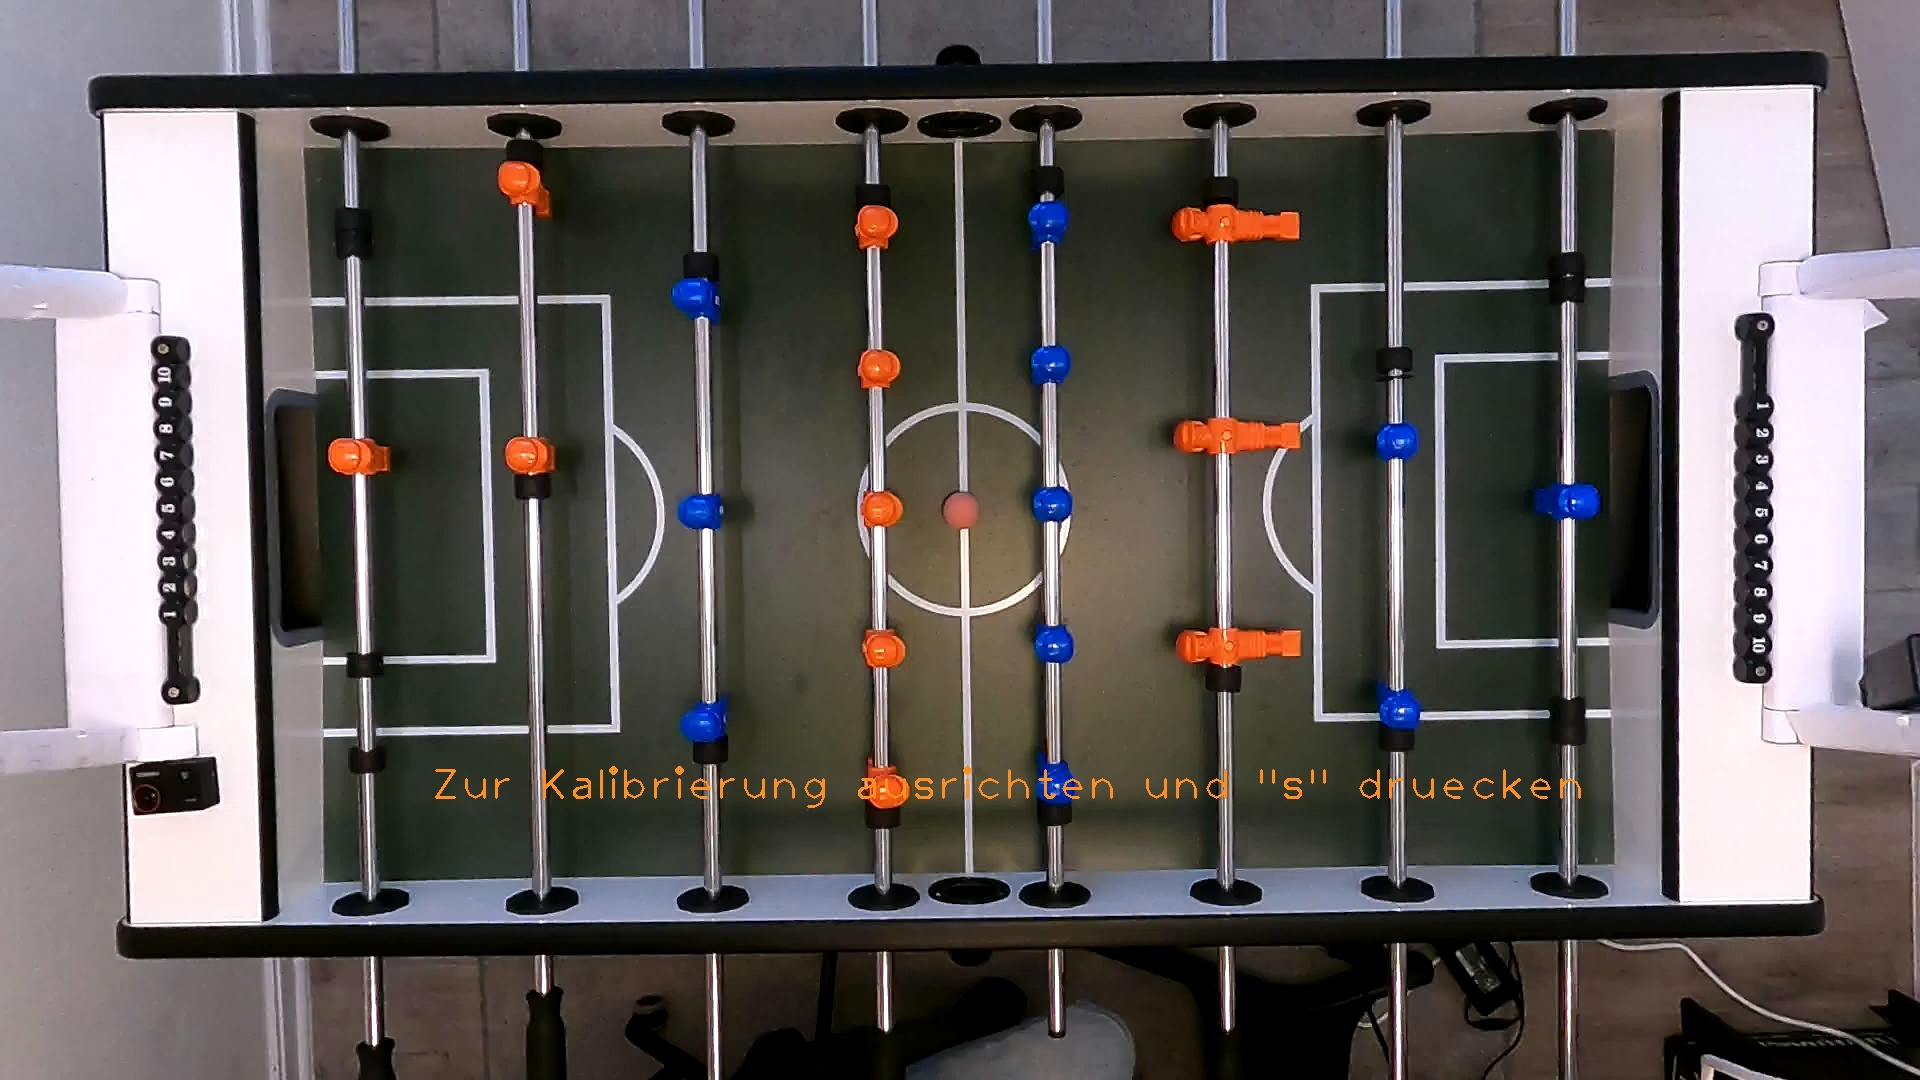
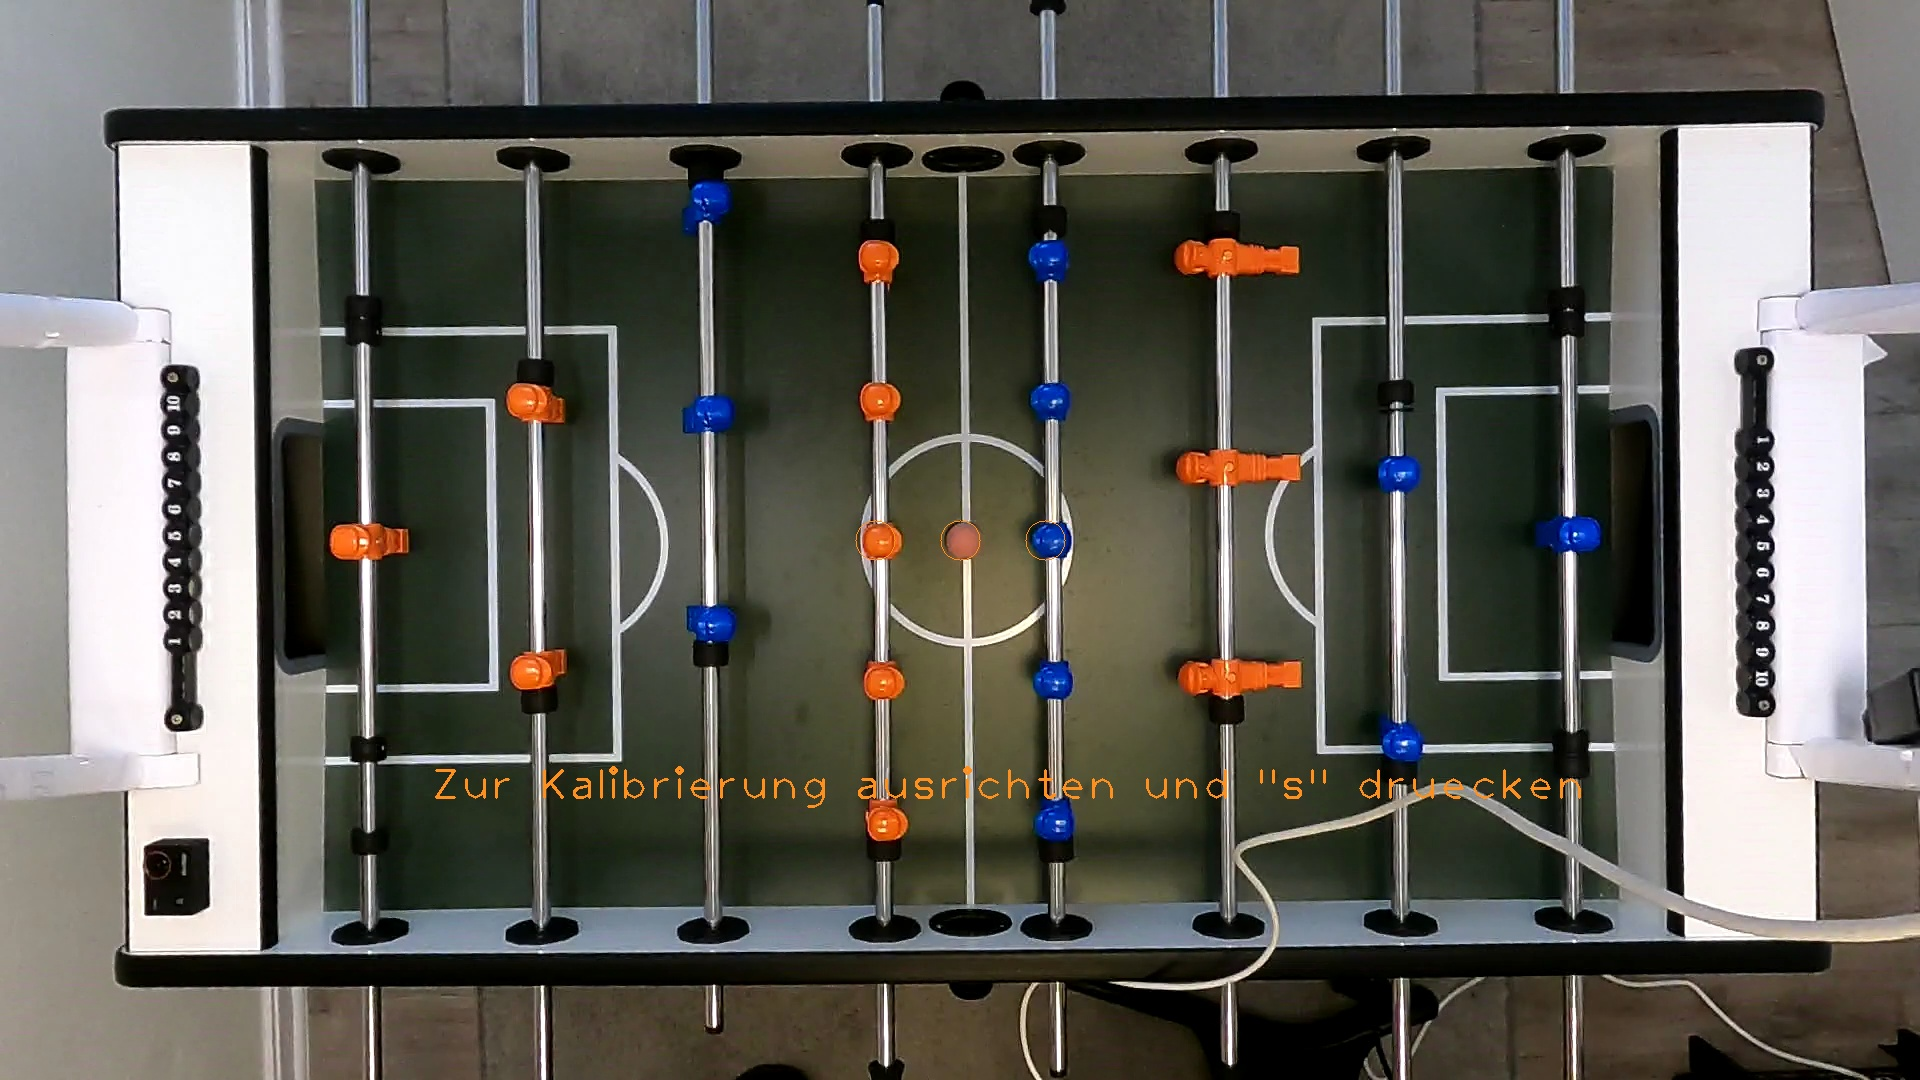
including better color range for color detection

diff --git a/Code/detect_color.py b/Code/detect_color.py
@@ -24,9 +24,6 @@ class ColorTracker:
         x_center = int(round(img_hsv.shape[1] / 2))
         y_center = int(round(img_hsv.shape[0] / 2))
 
-        # cv2.circle(img_hsv, (int(x_center), int(y_center)), 1, (0, 0, 255), 1)
-        # cv2.imwrite("croppedBall.jpg", img_hsv)
-
         # Get the color of the pixel in the image center
         color = img_hsv[y_center, x_center]
 
@@ -34,12 +31,10 @@ class ColorTracker:
         lower_border_arr = [np.min(colors[:, :, 0]), np.min(colors[:, :, 1]), np.min(colors[:, :, 2])]
         upper_border_arr = [np.max(colors[:, :, 0]), np.max(colors[:, :, 1]), np.max(colors[:, :, 2])]
 
+        # Create a mask for the areas with a color similar to the center pixel
         lower_border_arr = np.array(lower_border_arr)
         upper_border_arr = np.array(upper_border_arr)
 
-        # Create a mask for the areas with a color similar to the center pixel
-        # lower_border_arr = color - [20, 20, 20]
-        # upper_border_arr = color + [20, 20, 20]
         lower_border = tuple(lower_border_arr.tolist())
         upper_border = tuple(upper_border_arr.tolist())
 
@@ -71,13 +66,11 @@ class ColorTracker:
         if team_number == 1:
             x_player = x_center + 85
             y_player = y_center
-            # cv2.circle(img_hsv, (int(x_player), int(y_player)), 1, (0, 255, 255), 1)
-            # cv2.imwrite("croppedImage1.jpg", img_hsv)
+
         if team_number == 2:
             x_player = x_center - 85
             y_player = y_center
-            # cv2.circle(img_hsv, (int(x_player), int(y_player)), 1, (0, 255, 255), 1)
-            # cv2.imwrite("croppedImage2.jpg", img_hsv)
+
 
         # Get the color of the pixel in the image center
         color = img_hsv[y_player, x_player]
@@ -85,12 +78,10 @@ class ColorTracker:
         lower_border_arr = [np.min(colors[:, :, 0]), np.min(colors[:, :, 1]), np.min(colors[:, :, 2])]
         upper_border_arr = [np.max(colors[:, :, 0]), np.max(colors[:, :, 1]), np.max(colors[:, :, 2])]
 
+        # Create a mask for the areas with a color similar to the center pixel
         lower_border_arr = np.array(lower_border_arr)
         upper_border_arr = np.array(upper_border_arr)
 
-        # Create a mask for the areas with a color similar to the center pixel
-        # lower_border_arr = color_range - [20, 20, 20]
-        # upper_border_arr = color_range + [20, 20, 20]
         lower_border = tuple(lower_border_arr.tolist())
         upper_border = tuple(upper_border_arr.tolist())
 
@@ -145,7 +136,6 @@ class ColorTracker:
 
         return dist
 
-    ball_position_history = []
 
     def get_var(self, _type):
         """
@@ -156,7 +146,5 @@ class ColorTracker:
         """
         if 'ball_position' == _type:
             return self.curr_ball_position
-        elif 'ball_position_history' == _type:
-            return self.ball_position_history
         else:
             return ""  # False

diff --git a/Code/main.py b/Code/main.py
@@ -57,7 +57,7 @@ def main():
 
         calibration_image = cv2.cvtColor(cv2.imread(r"./calibration_image.JPG"), cv2.COLOR_BGR2HSV)
 
-        # The initialization is done with only a small part of theq image around the center spot.
+        # The initialization is done with only a small part of the image around the center spot.
         x1 = int(round(ball_position[0] - (calibration_image.shape[1] / 10), 0))
         x2 = int(round(ball_position[0] + (calibration_image.shape[1] / 10), 0))
         y1 = int(round(ball_position[1] - (calibration_image.shape[0] / 10), 0))
@@ -85,9 +85,9 @@ def main():
             video_shower.frame = frame
             cv2.putText(frame, "Zur Kalibrierung ausrichten und \"s\" druecken", (430, 800),
                         cv2.FONT_HERSHEY_PLAIN, 3, (30, 144, 255), 2)
-            # cv2.circle(frame, (int(frame.shape[1]/2), int(frame.shape[0]/2)), 20, (30, 144, 255), 1)
-            # cv2.circle(frame, (int(frame.shape[1]/2-85), int(frame.shape[0]/2)), 20, (30, 144, 255), 1)
-            # cv2.circle(frame, (int(frame.shape[1]/2+85), int(frame.shape[0]/2)), 20, (30, 144, 255), 1)
+            cv2.circle(frame, (int(frame.shape[1] / 2), int(frame.shape[0] / 2)), 20, (30, 144, 255), 1)
+            cv2.circle(frame, (int(frame.shape[1] / 2 - 85), int(frame.shape[0] / 2)), 20, (30, 144, 255), 1)
+            cv2.circle(frame, (int(frame.shape[1] / 2 + 85), int(frame.shape[0] / 2)), 20, (30, 144, 255), 1)
             if keyboard.is_pressed("s"):
                 cv2.imwrite("calibration_image.JPG", frame)
             file_exists = os.path.exists("./calibration_image.JPG")
